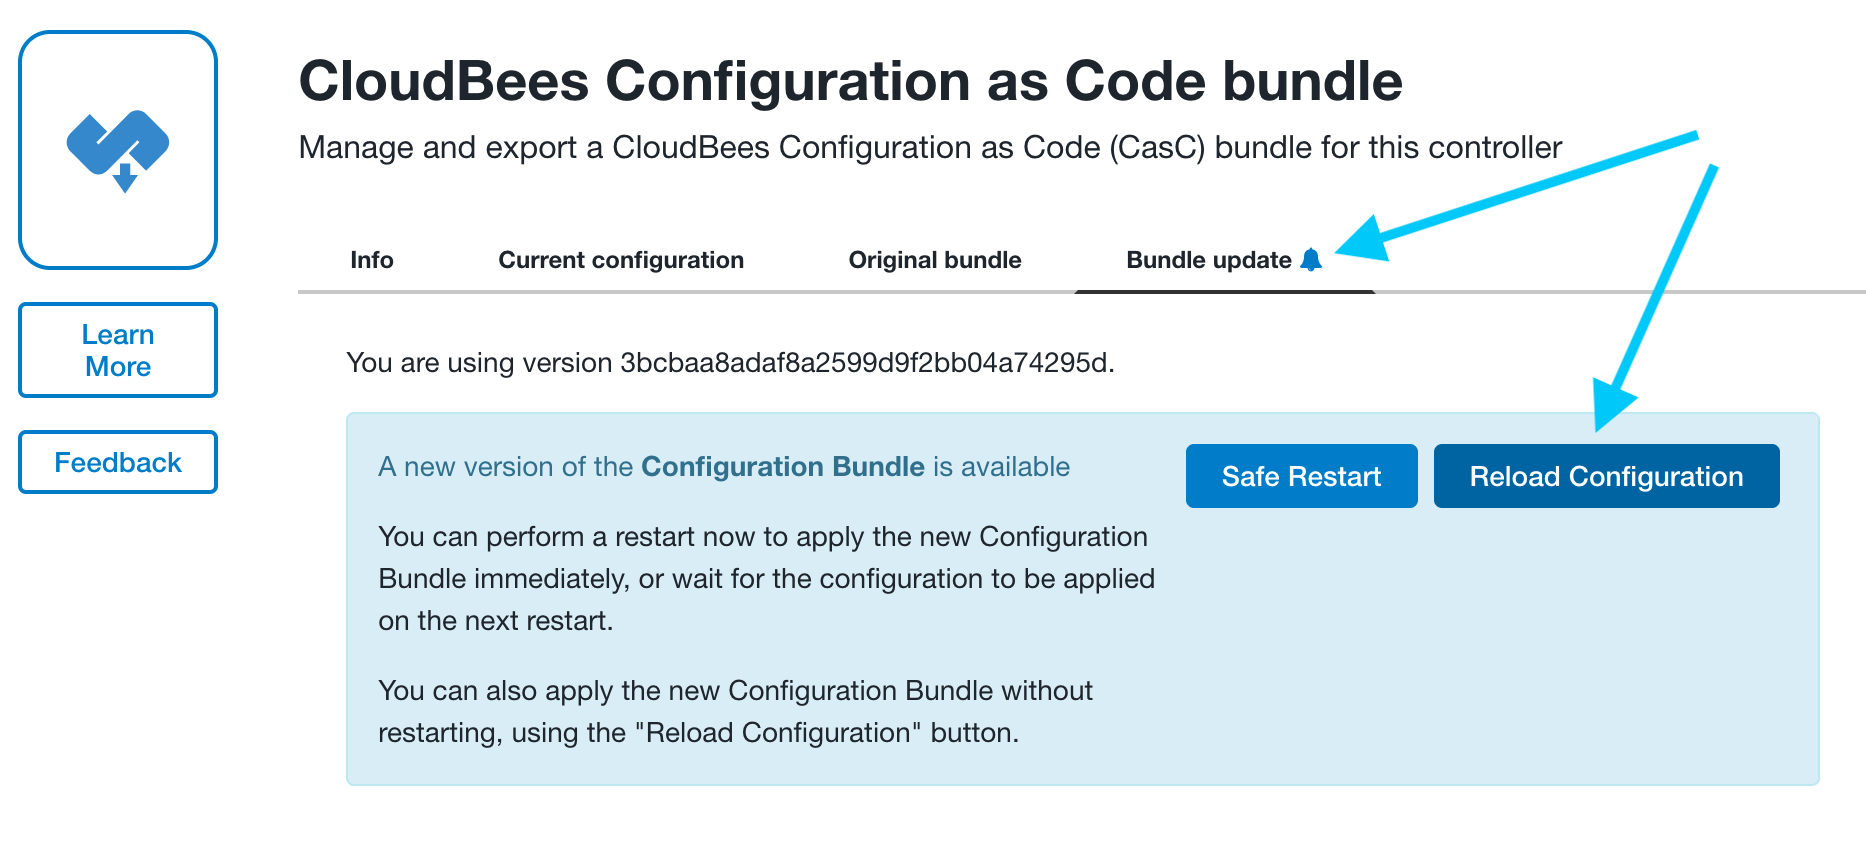
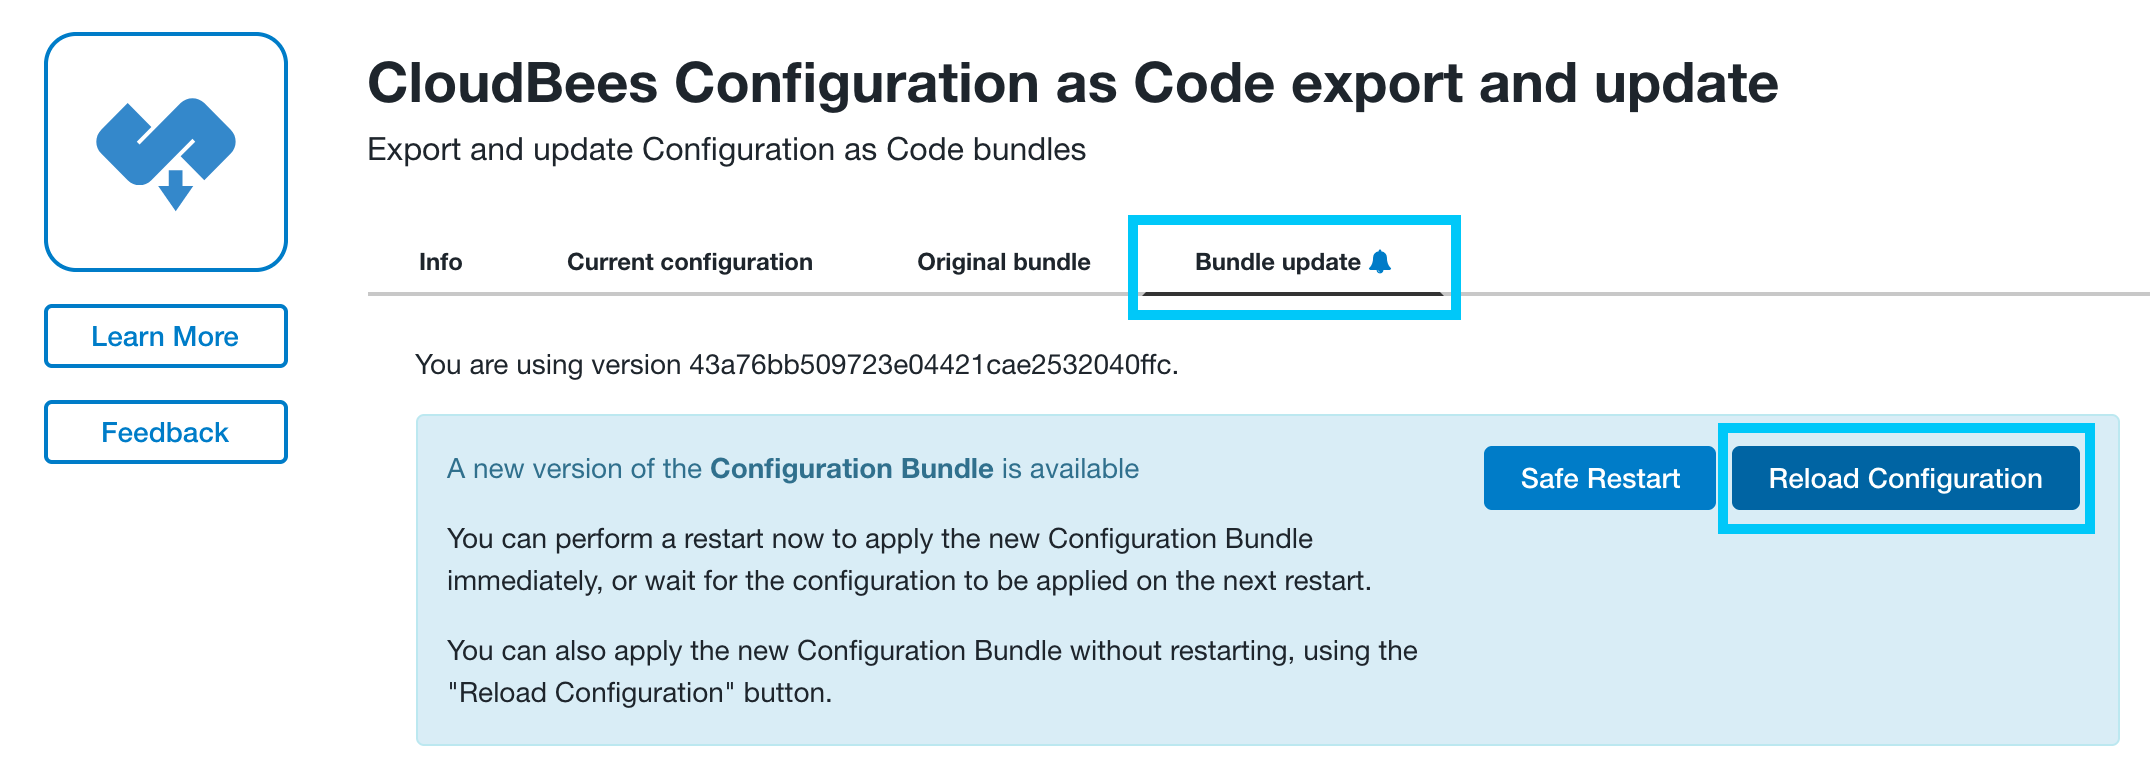
updates to provisioning lab

Changed region(s): [[0.1554, 0.0617, 1.0, 0.9563], [0.0, 0.0308, 0.1243, 0.617], [0.8703, 0.1542, 0.9325, 0.2776]]

diff --git a/labs/cloudbees-ci-casc/content/labs/provisioning-with-casc.md b/labs/cloudbees-ci-casc/content/labs/provisioning-with-casc.md
@@ -156,8 +156,8 @@ credentials:
 
 5. Commit the `jcasc/credentials.yaml` file directly to the `main` branch of your `ops-controller` repository. ![Commit credentials.yaml](commit-credentials.png?width=50pc)
 6. Navigate to the `main` branch job of the `ops-controller` Multibranch pipeline project on your Ops controller. ![ops-controller Mulitbranch](ops-controller-multibranch-jcasc.png?width=50pc)
-7. After the the `main` branch job has completed successfully, navigate to the top level of your Ops controller, click on the **Manage Jenkins** link in the left menu, and then click on the **CloudBees Configuration as Code bundle** **System Configuration** item. ![CasC Configuration link](casc-config-link.png?width=50pc)
-8. On the **CloudBees Configuration as Code bundle** click on the **Bundle update** tab and you should see that there is a bundle update available. ![CasC bundle update](casc-bundle-update.png?width=50pc)
+7. After the the `main` branch job has completed successfully, navigate to the top level of your Ops controller, click on the **Manage Jenkins** link in the left menu, and then click on the **CloudBees Configuration as Code export and update** **System Configuration** item. ![CasC Configuration link](casc-config-link.png?width=50pc)
+8. On the **CloudBees Configuration as Code export and update** page click on the **Bundle update** tab and you should see that there is a bundle update available. ![CasC bundle update](casc-bundle-update.png?width=50pc)
 9. Click on the **Reload Configuration** button and then on the next screen click the **Yes** button to apply the bundle update. ![CasC bundle apply](casc-bundle-apply.png?width=50pc)
 10. After the updated configuration bundle is finished being applied click on the **Manage Credentials** link. ![Manage Credentials link](manage-credentials-link.png?width=50pc)
 11. On the **Credentials** management page you will see a new **CasC Workshop Controller Provision Secret** credential.  ![New Credential](new-credential.png?width=50pc)
